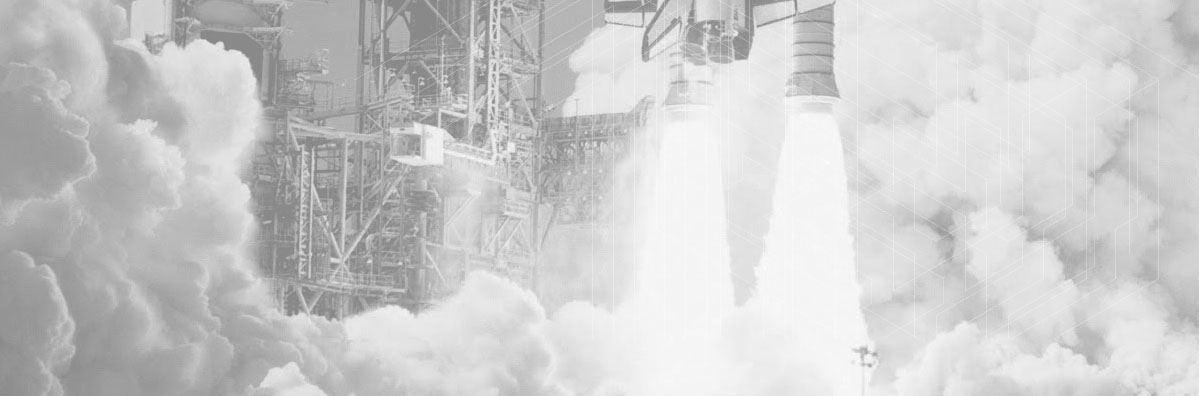
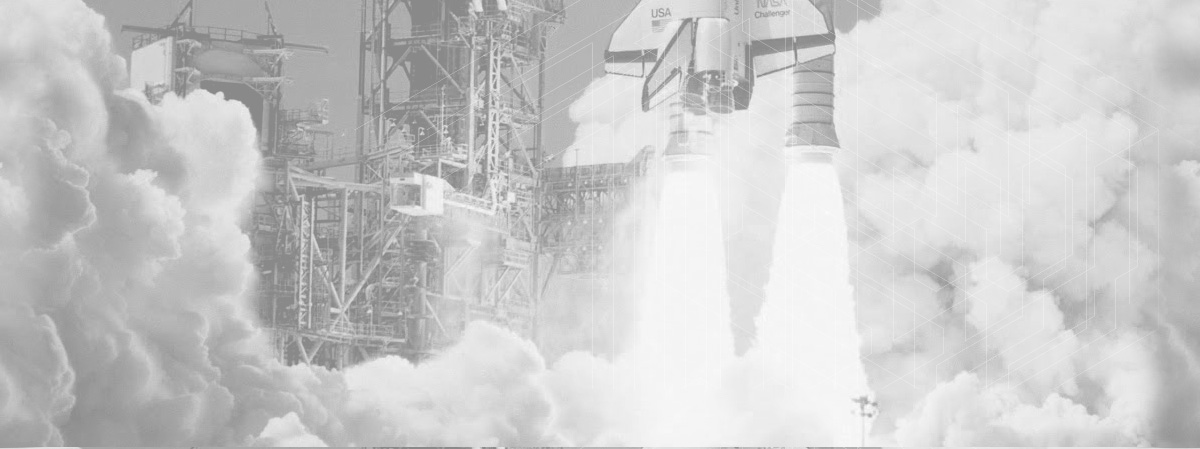
Graphic changes

diff --git a/ethics/css/ethics.css b/ethics/css/ethics.css
@@ -2,6 +2,11 @@ body {
     margin: 0;
 }
 
+a {
+	color: #EB4C37;
+	text-decoration:none;
+}
+
 #container {
     /*margin: 65px 0;
     
@@ -52,6 +57,10 @@ a#circle {
 
 #top-header-nav a {
 	text-decoration: none;
+	display: inline-block;
+	border: thin solid black;
+	padding: 1px 6px;
+	background: black;
 }
 
 .sticky ul {
@@ -106,7 +115,7 @@ li.dmegallery {
 
 div#top-header {
 	height: 396px;
-	background: url(../img/top-img2.jpg) #DFE0DA 50% scroll no-repeat;;
+	background: url(../img/top-img.jpg) #9F9F9F 50% scroll repeat-x;;
 }
 
 div#top-header div#top-header-content {
@@ -137,18 +146,16 @@ div#top-header-content div#top-header-nav {
 	width: 600px;
 	
 	position: relative;
-	top: 200px;
+	top: 196px;
 }
 
 div#top-header-nav {
-	opacity: .5;
-	
-	/* For IE7 8 9 */
 	filter: Alpha(Opacity=50) \9;
 }
 
 div#top-header-nav span {
 	font-family: Tahoma, Geneva, sans-serif;
+	color: #777;
 }
 
 div#top-header-nav img {
@@ -160,9 +167,12 @@ div#top-header-nav .color-red {
 }
 
 #top-title {
-	color: #CCC;
+	color: #333;
+	margin: 50px 0 0;
 	font-weight: 100;
-	font-size: 20pt;
+	font-size: 30px;
+	font-family: "jaf-bernino-sans-comp", sans-serif, Arial;
+	font-weight: lighter;
 }
 
 div.story-container {
@@ -172,20 +182,42 @@ div.story-container {
 }
 
 div.story {
-	width: 550px;
+	width: 960px;
 }
 
 div.story p {
-	color: #797979;
+	font-family: Sans-serif, Arial;
+	font-weight: 100;
+	color: #000;
+	line-height: 1.5em;
+	margin: 6px 0 20px;
+	width: 550px;
+}
+
+div.story p.pullquote {
+    float: right;
+	
+    width: 290px;
+    font-family: "jaf-bernino-sans-comp", sans-serif, Arial;
+    font-size: 30px;
+    border-top: 14px solid black;
+    border-bottom: 14px solid black;
+    text-align: center;
+    padding: 20px 0;
+}
+
+div.story p:first-child {
+	
 }
 
 div.question {
 	height: 600px;
 	margin: auto;
+	box-shadow: inset 0 0 50px rgba(0,0,0,0.7);
 }
 
 div.question-container {
-	width: 960px;
+	width: 780px;
 	margin: auto;
 	height: 100%;
 	position: relative;
@@ -197,6 +229,7 @@ div.question-content {
 	height:100%;
 	width: 450px;
 	float: left;
+	box-shadow: 0 0 40px rgba(0,0,0,.7);
 	overflow: scroll;
 }
 

diff --git a/ethics/css/flexslider.css b/ethics/css/flexslider.css
@@ -39,7 +39,7 @@ html[xmlns] .slides {display: block;}
 
 /* FlexSlider Default Theme
 *********************************/
-.flexslider {margin: 0 0 60px; background: #fff; border: 4px solid #fff; position: relative; -webkit-border-radius: 4px; -moz-border-radius: 4px; -o-border-radius: 4px; border-radius: 4px; /*box-shadow: 0 1px 4px rgba(0,0,0,.2); -webkit-box-shadow: 0 1px 4px rgba(0,0,0,.2); -moz-box-shadow: 0 1px 4px rgba(0,0,0,.2); -o-box-shadow: 0 1px 4px rgba(0,0,0,.2);*/ zoom: 1;}
+.flexslider {margin: 0 0 60px; background: #fff;  position: relative; -webkit-border-radius: 4px; -moz-border-radius: 4px; -o-border-radius: 4px; border-radius: 4px; /*box-shadow: 0 1px 4px rgba(0,0,0,.2); -webkit-box-shadow: 0 1px 4px rgba(0,0,0,.2); -moz-box-shadow: 0 1px 4px rgba(0,0,0,.2); -o-box-shadow: 0 1px 4px rgba(0,0,0,.2);*/ zoom: 1;}
 .flex-viewport {max-height: 2000px; -webkit-transition: all 1s ease; -moz-transition: all 1s ease; transition: all 1s ease;}
 .loading .flex-viewport {max-height: 300px;}
 .flexslider .slides {zoom: 1;}
@@ -49,7 +49,7 @@ html[xmlns] .slides {display: block;}
 
 /* Direction Nav */
 .flex-direction-nav {*height: 0;}
-.flex-direction-nav a {width: 30px; height: 30px; margin: -20px 0 0; display: block; background: url(../img/bg_direction_nav.png) no-repeat 0 0; position: absolute; top: 50%; z-index: 10; cursor: pointer; text-indent: -9999px; opacity: 0; -webkit-transition: all .3s ease;}
+.flex-direction-nav a {width: 33px; height: 33px; margin: -20px 0 0; display: block; background: url(../img/bg_direction_nav_white.png) no-repeat 0 0; position: absolute; top: 50%; z-index: 10; cursor: pointer; text-indent: -9999px; opacity: 0; -webkit-transition: all .3s ease;}
 .flex-direction-nav .flex-next {background-position: 100% 0; right: -36px; }
 .flex-direction-nav .flex-prev {left: -36px;}
 .flexslider:hover .flex-next {opacity: 0.8; right: 5px;}

diff --git a/ethics/index.php b/ethics/index.php
@@ -46,6 +46,8 @@ if (!$result) {
         <script>document.cookie='resolution='+Math.max(screen.width,screen.height)+("devicePixelRatio" in window ? ","+devicePixelRatio : ",1")+'; path=/';</script>
         <script src="js/vendor/modernizr-2.6.2.min.js"></script>
         <script src="js/g.raphael-min.js"></script>
+        <script type="text/javascript" src="//use.typekit.net/xyr4htp.js"></script>
+        <script type="text/javascript">try{Typekit.load();}catch(e){}</script>
     </head>
     <body>
         <!--[if lt IE 7]>
@@ -71,12 +73,14 @@ if (!$result) {
                 <div class="story">
                     <h1 id="top-title">By Bill Clayton</h1>
                     <p>On Day One of Engineering 101 on the Princeton campus, not so many years ago, a professor strode into class, threw down his jacket and said to his students, “I just heard about a fantastic new invention. Virtually everyone in the world will want it. It’ll create millions of jobs and improve people’s quality of life. The inventor’s looking for investors. Who wants in?” </p>
+                    <p class="pullquote">Engineers do things of consequence, sometime positive, sometimes negative, sometimes accidental, often widespread, occasionally irreversible.</p>
+
                     <p>Hands shot up. Yes! Yes! Of course we would! The collective look in their eyes said, “Engineering’s gonna make me rich, and I haven’t even pulled my first all-nighter.”</p>
                     <p>“But,” the professor said, wagging a finger, “this invention will kill a quarter of a million people each year.”</p>
                     <p>The hands went down slowly, as if the hands themselves had learned the lesson of the day: Engineers do things of consequence, sometime positive, sometimes negative, sometimes accidental, often widespread, occasionally irreversible. (By the way, the “new invention” in the professor’s scenario was the automobile.)</p>
 					<p>He continued, telling his class that engineering does indeed deal with equations, physical laws and problem-solving, but it’s not that simple. Engineers often work at the intersection or technology and ethics.</p>
                     <p>Cynthia Finelli (BSE EE ’88, MSE ’89, PhD ’93) is the director of the Center for Research on Learning and Teaching in Engineering and a research associate professor. She’s also part of E3 (Exploring Ethical Decision-Making in Engineering), a multi-institutional team of engineering educators that studies engineering ethics. She notes that “using engineering to improve people’s lives requires more than an ability to build bridges and unravel the mysteries of DNA. Engineers need a moral center.” </p>
-					<p>The need for this moral center has raised its head over and over, often in unforgettable ways.</p>
+					
                 </div>
             </div>
             <?php
@@ -165,12 +169,12 @@ if (!$result) {
             </div>
         	<div class="story-container">
                 <div class="story">
+                    <p>The need for this moral center has raised its head over and over, often in unforgettable ways.</p>
+                    <p class="pullquote">Using engineering to improve people’s lives requires more than an ability to build bridges and unravel the mysteries of DNA. Engineers need a moral center.</p>
                     <p>The designers of the Titanic equipped the ship with 1,178 lifeboat positions, knowing that the vessel carried 2,224 passengers and crew. When disaster struck, 1,515 people lost their lives, at least in part because of this single decision about lifeboats. The owners wanted to bill the ship as “unsinkable.” No one knows what the engineers were thinking, but even if they had just an inkling that the ship was in fact sinkable, was there any justification for providing lifeboat positions for only half the ship’s occupants? Was this a case of an ethical lapse or bad design - or both? </p>
 					<p>Seven astronauts aboard the Challenger shuttle died tragically in an explosion during launch on January 28, 1986. Investigation showed that the failure of an "O-ring" seal in one of Challenger’s solid-fuel boosters led to the explosion. The investigation faulted NASA officials for allowing the shuttle to launch despite clear warnings by engineers from the Morton-Thiokol company, manufacturers of the booster rockets: launching the vehicle during cold weather could cause problems. Because each O-ring had a backup in place, NASA decided it was unlikely that both the primary and the backup would fail. This case raises a number of fundamental questions, such as issues was NASA’s judgment justified? Should engineers have pressed the issue more strongly, perhaps to officials other than those at NASA? (The Challenger accident is frequently used as a case study in subjects such as engineering safety, the ethics of whistle-blowing, communications, group decision-making and the dangers of groupthink).</p>
                     <p>These and other examples present issues that engineers face frequently and can be used to influence that moral center Finelli spoke of. E3 research shows that it’s possible to develop an engineer’s ability to make good decisions. “Students who cheat in college are more likely to become professionals predisposed to make unethical decisions,” she said. “Forty years of ational research shows that levels of cheating are higher in undergraduate engineering than in almost all other disciplines, and educators have the ability and the opportunity to have an impact on students’ decision-making processes.</p>
-					<p>“We’ve made a lot of progress in identifying factors that influence the ethical decision-making of engineering undergraduates and, ultimately, this work will affect the engineering profession by producing engineers of the highest integrity. We’re helping to raise Michigan Engineering’s awareness of ethics and encouraging its students, faculty, staff and graduates, as well as engineers in general, to embrace ethical behavior.”</p>
-                    <p>As technology grows more complex, choices become more difficult. For engineers, making an ethical choice is important on a global scale because technology now reaches people around the world. On a personal level, doing the right thing speaks volumes about a person’s character – people are ultimately the product of their choices.</p>
-					<p>It takes years to build a reputation – and five minutes to ruin it. One choice can be a life-and-death decision for engineers. That’s something they can learn on day one of Engineering 101; it’s something they must remember every day after.</p>
+					
                 </div>
             </div>
             <div class="flexslider">
@@ -191,7 +195,7 @@ if (!$result) {
                                 for ($i=0; $i<2; $i++){
                                     $row = mysql_fetch_row($result);
                                     ?>
-                                    <div class="question-div" id="question-div-<?= $count ?>"
+                                    <div class="question-div active" id="question-div-<?= $count ?>"
                                     <?php
                                     if ($display_next){
                                         echo 'style="display: block;"';
@@ -253,6 +257,13 @@ if (!$result) {
                     }
                 ?>
                 </ul>
+            </div>
+            <div class="story-container">
+                <div class="story">
+                    <p>“We’ve made a lot of progress in identifying factors that influence the ethical decision-making of engineering undergraduates and, ultimately, this work will affect the engineering profession by producing engineers of the highest integrity. We’re helping to raise Michigan Engineering’s awareness of ethics and encouraging its students, faculty, staff and graduates, as well as engineers in general, to embrace ethical behavior.”</p>
+                    <p>As technology grows more complex, choices become more difficult. For engineers, making an ethical choice is important on a global scale because technology now reaches people around the world. On a personal level, doing the right thing speaks volumes about a person’s character – people are ultimately the product of their choices.</p>
+                    <p>It takes years to build a reputation – and five minutes to ruin it. One choice can be a life-and-death decision for engineers. That’s something they can learn on day one of Engineering 101; it’s something they must remember every day after.</p>
+                </div>
             </div>
         </div>
         <script src="http://ajax.googleapis.com/ajax/libs/jquery/1.8.2/jquery.min.js"></script>
